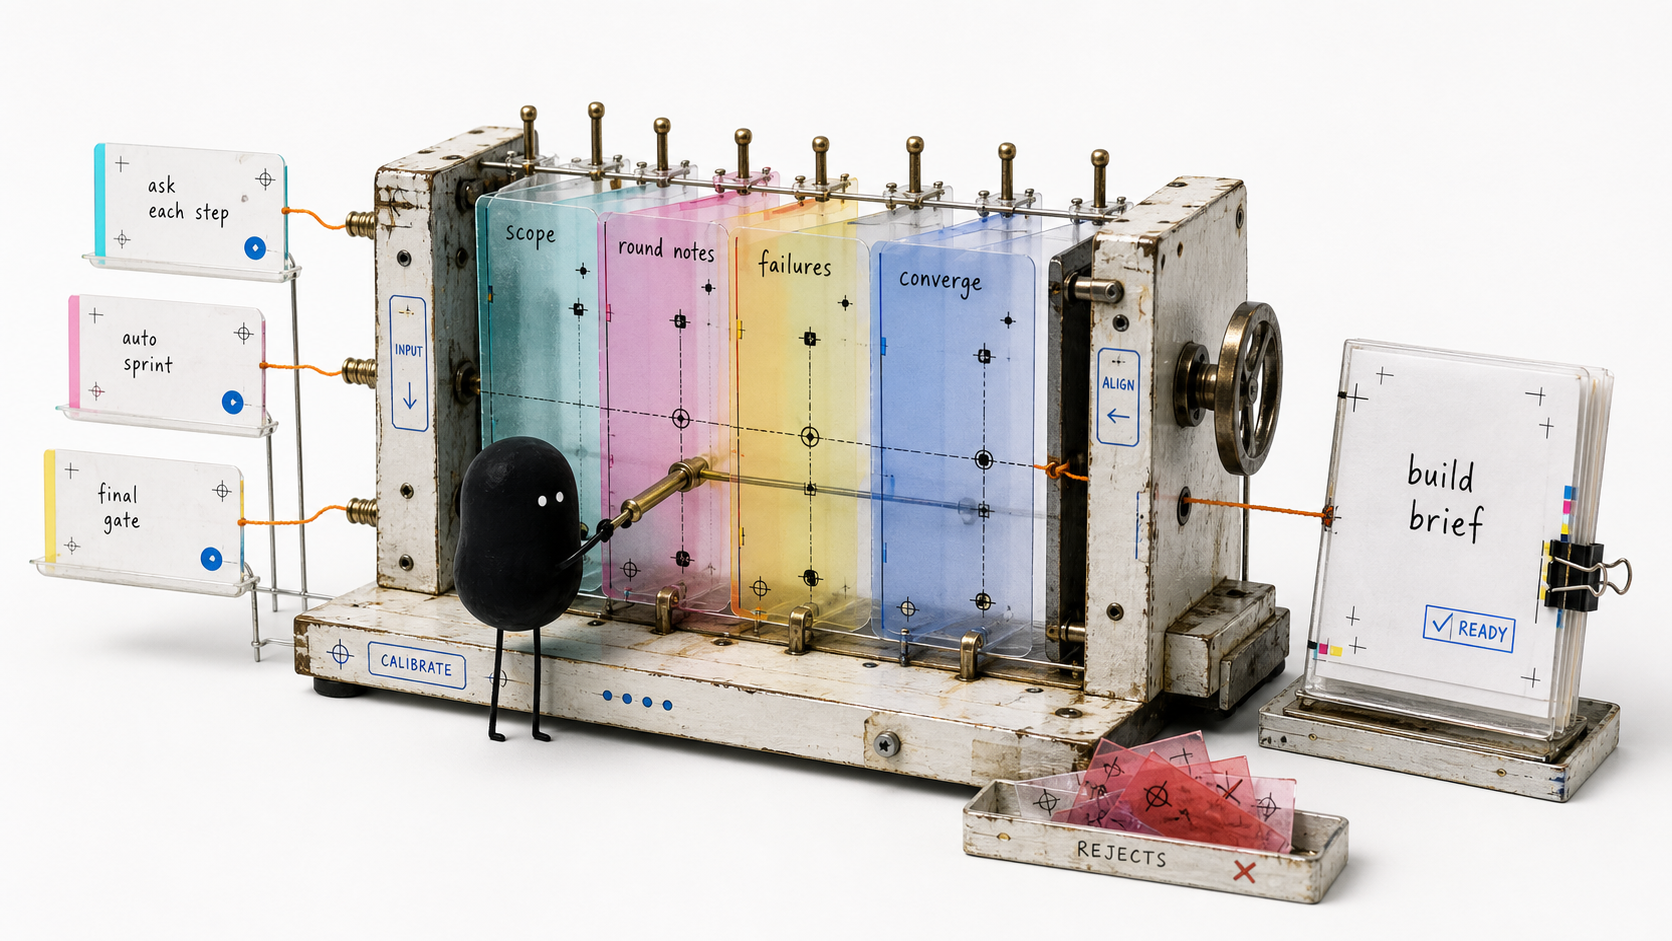
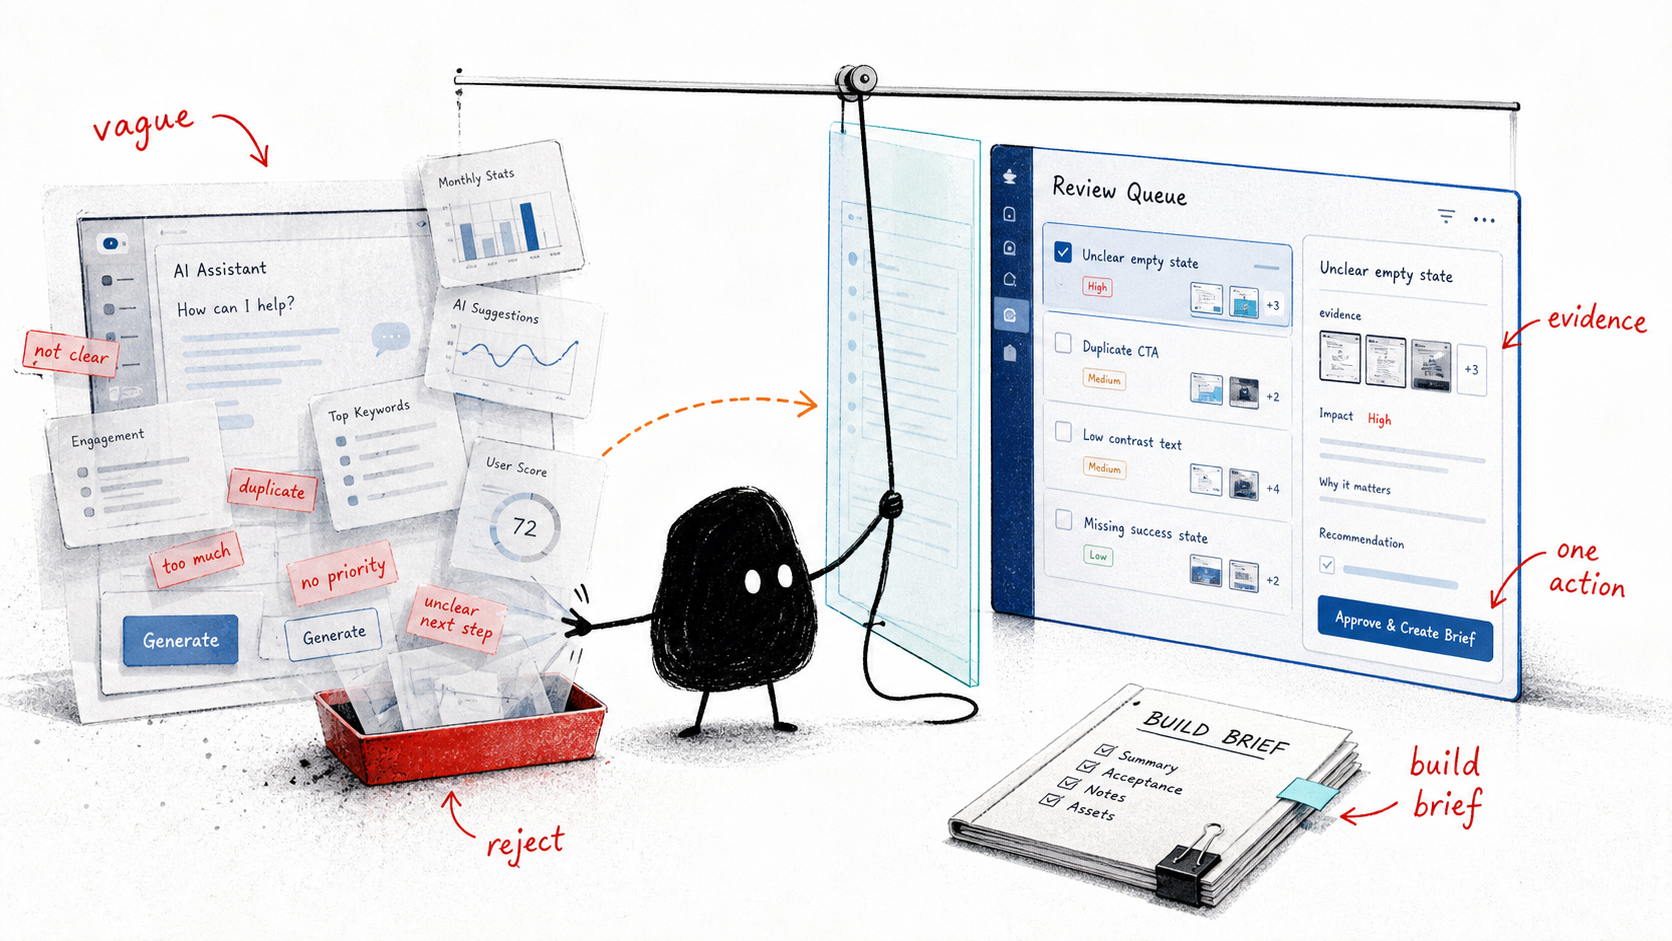
Improve featured image and stack proof examples

diff --git a/README.md b/README.md
@@ -10,9 +10,13 @@ It turns GPT image generation into a practical UI/UX collaborator: divergent des
 
 Example scenario: improve a product team's UI review workflow so vague AI suggestions become implementation-ready handoffs.
 
-| Before: generic AI dashboard | After: review queue to build brief |
-| --- | --- |
-| ![Before: generic AI dashboard](assets/examples/design-review-inbox/before-generic-ai-dashboard.svg) | ![After: review queue to build brief](assets/examples/design-review-inbox/after-review-queue.svg) |
+### Before: generic AI dashboard
+
+![Before: generic AI dashboard](assets/examples/design-review-inbox/before-generic-ai-dashboard.svg)
+
+### After: review queue to build brief
+
+![After: review queue to build brief](assets/examples/design-review-inbox/after-review-queue.svg)
 
 What changed: the center of the product moved from a vague assistant panel to a concrete issue queue. Evidence sits beside the decision, there is one primary action, and the output is a build brief a frontend agent can implement.
 